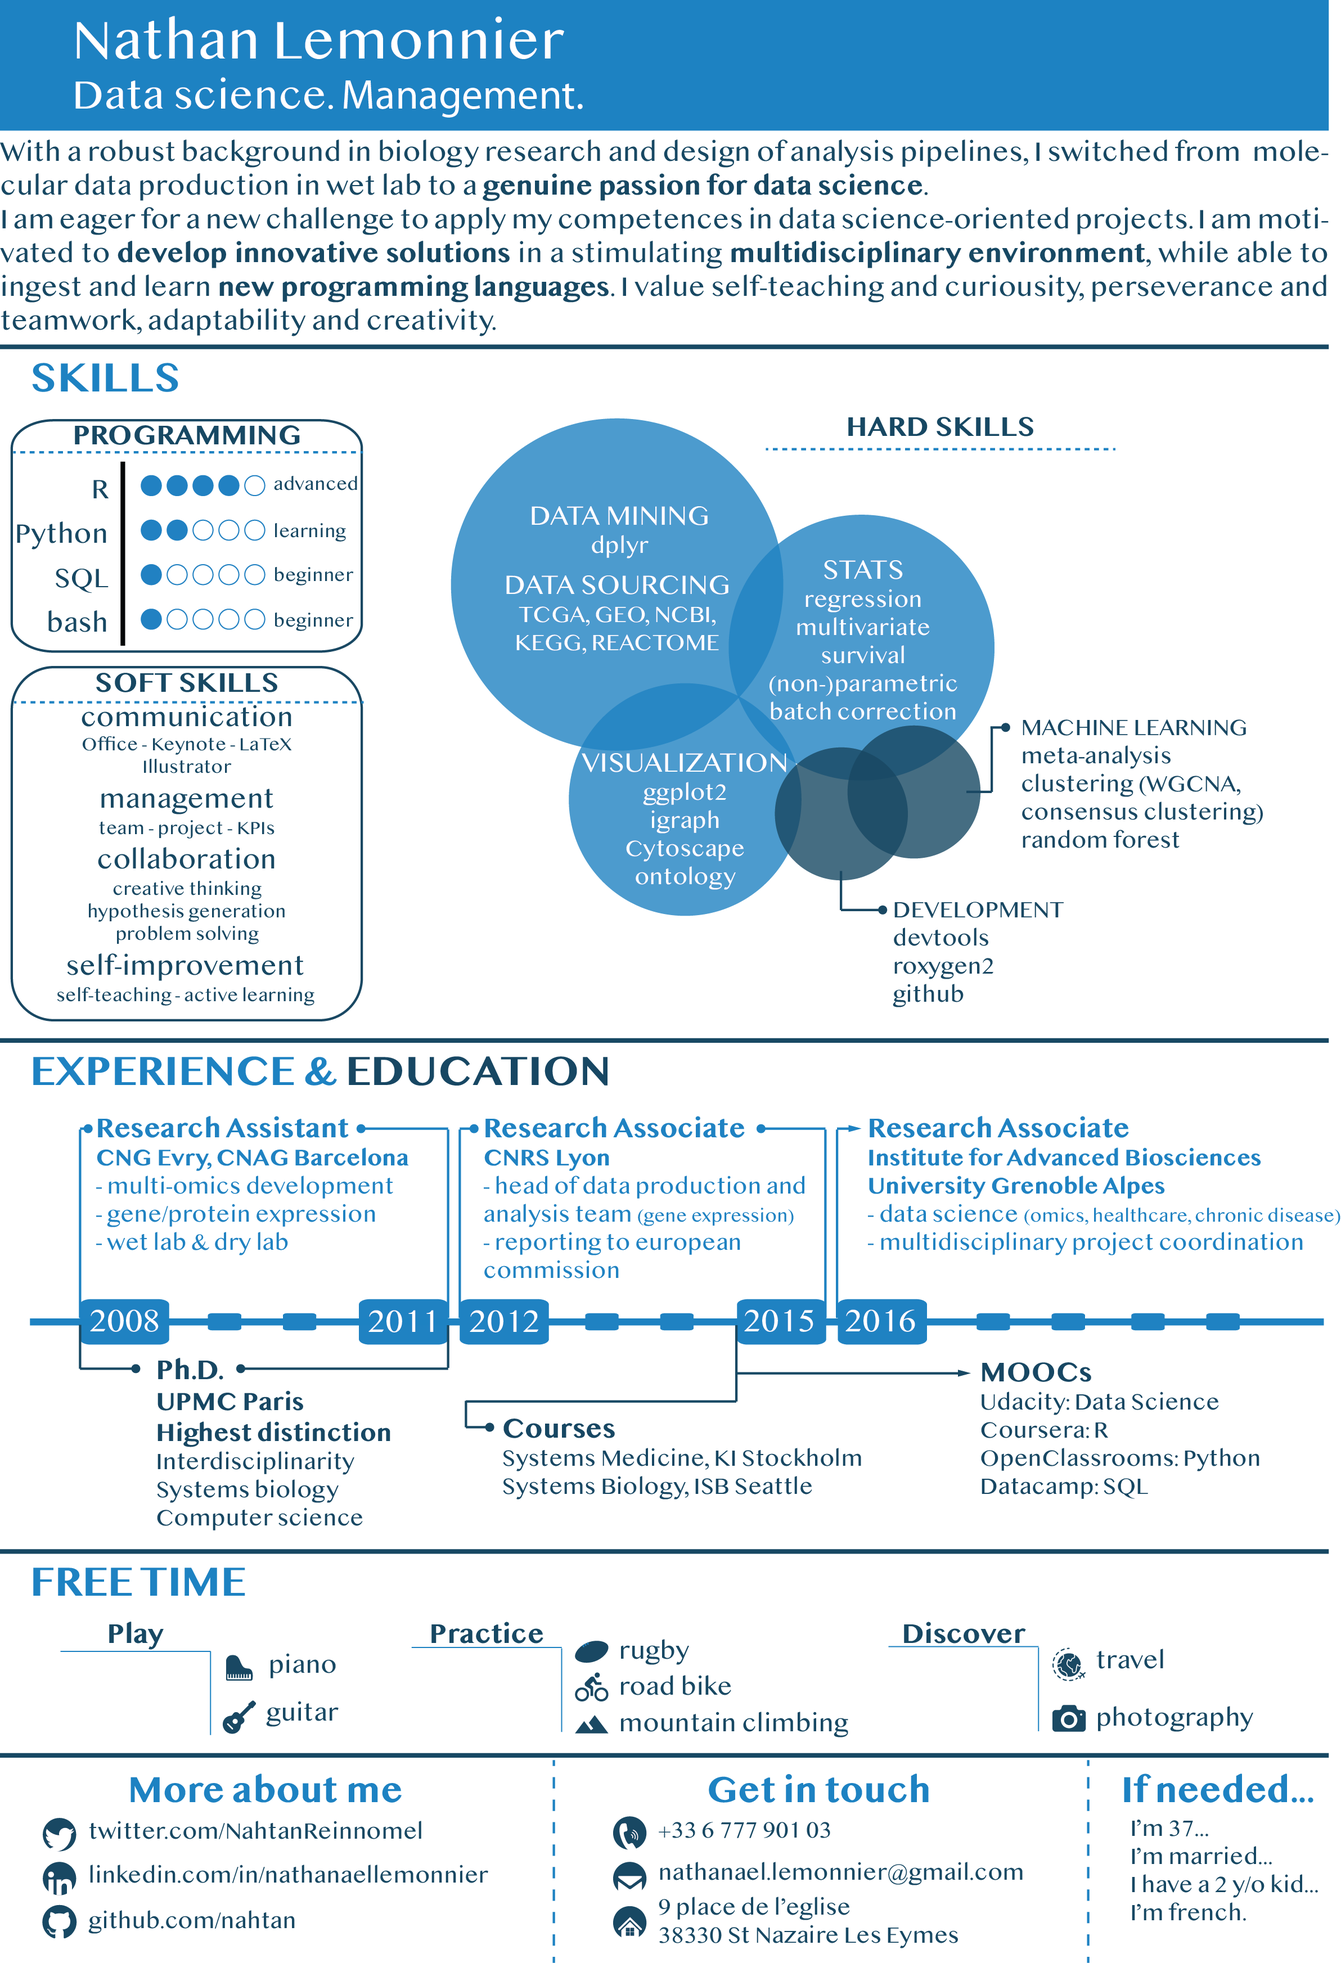
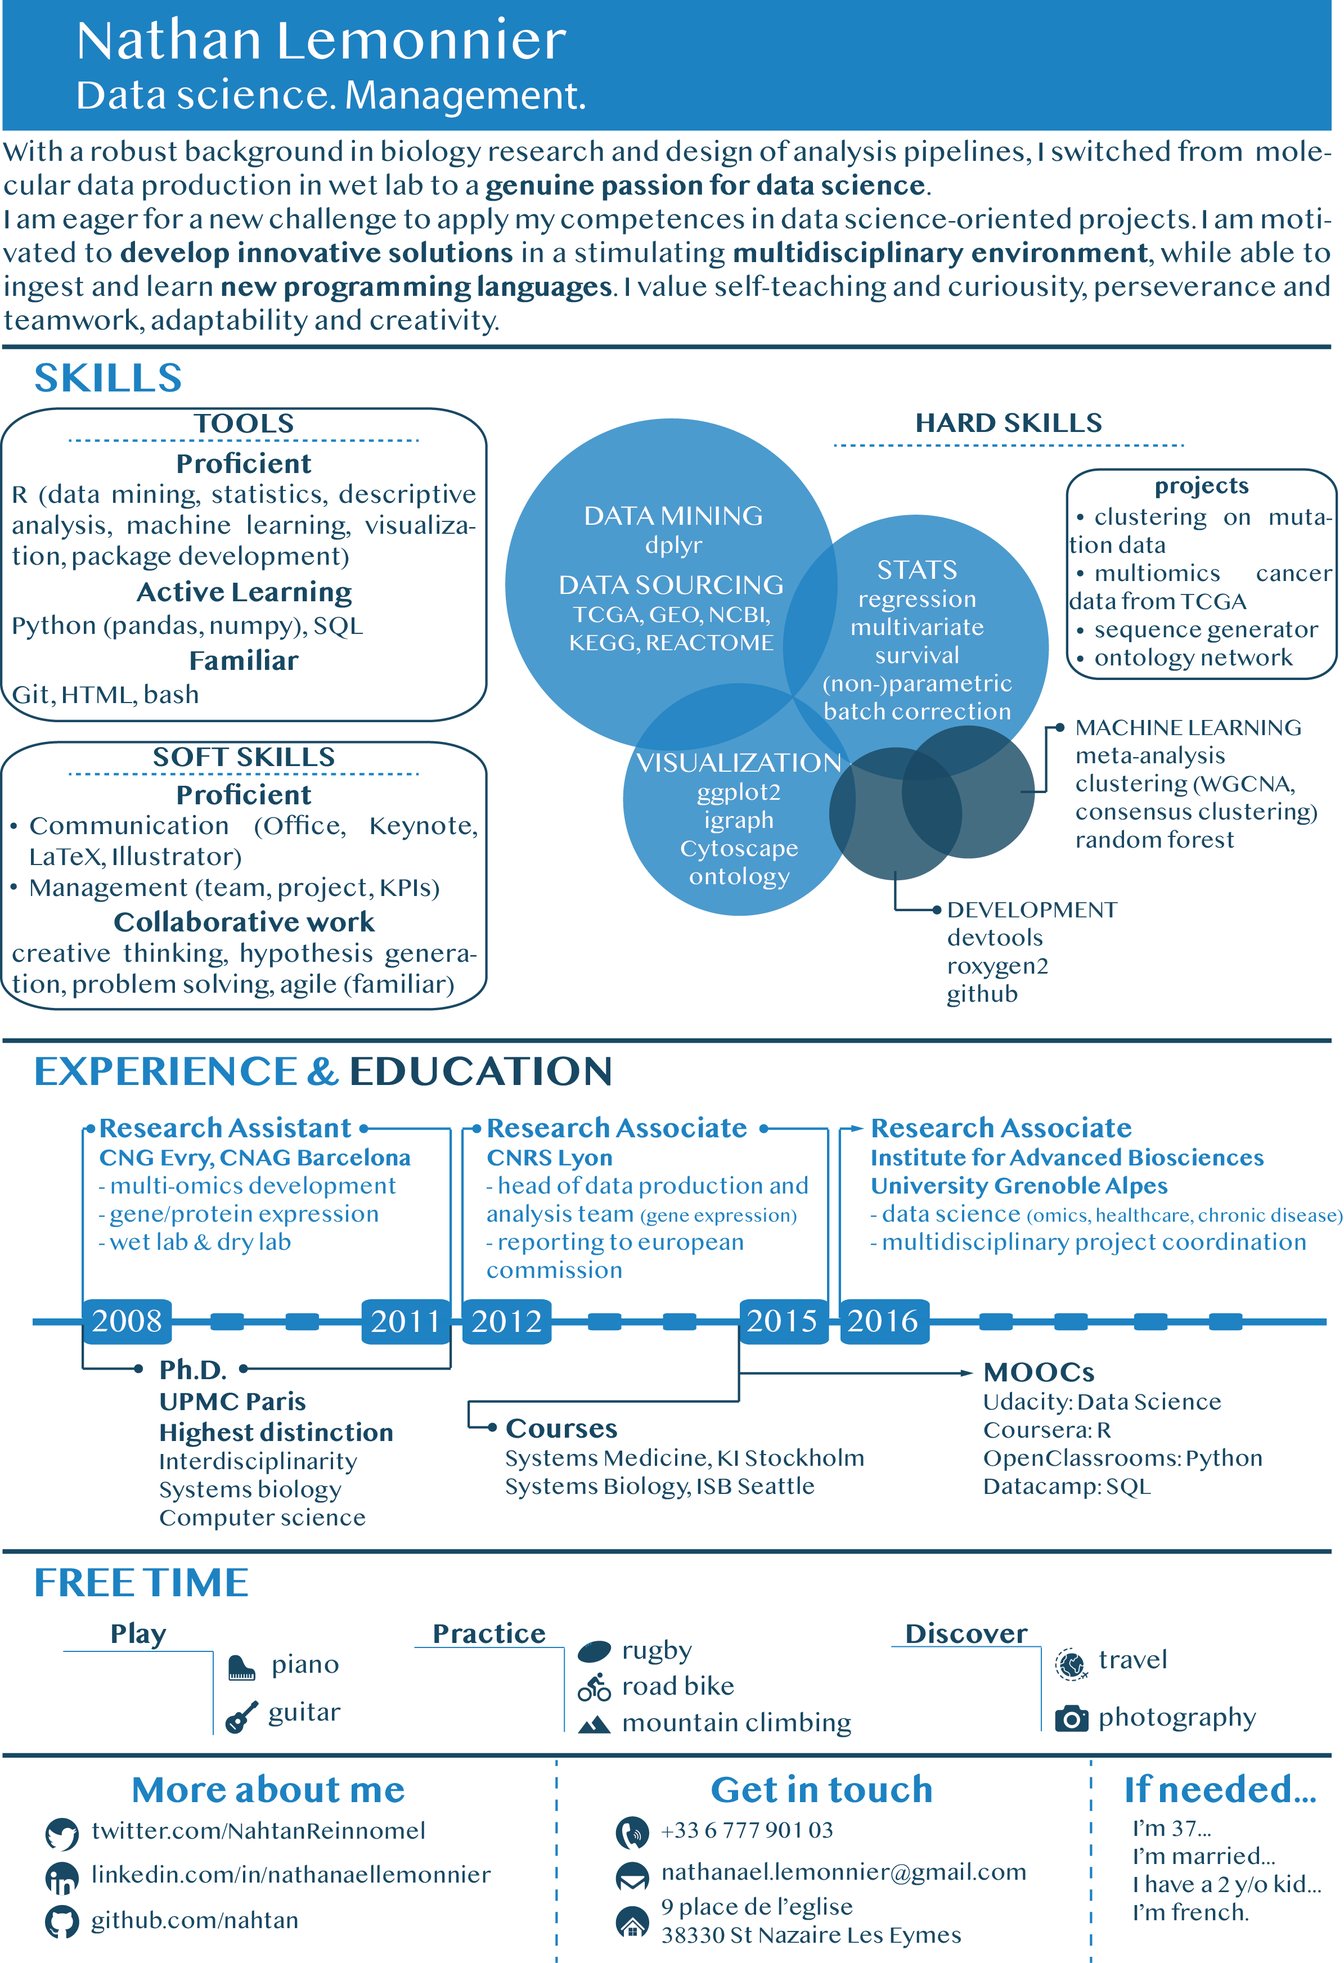
Add files via upload

diff --git a/_site/cv/index.html b/_site/cv/index.html
@@ -43,65 +43,311 @@
       <div class="inner clearfix">
         <section id="main-content">
           	<div class="cv">
-		<a href="img/cv.png" class="download" title="Download CV as PDF">Download my CV</a>			
+		<a href="img/cv.png" class="download" title="Download CV as PDF"><p align="right"> Download my CV </p></a>			
+<hr/>
+<b><a href="#pitch">PITCH</a></b><br>
+<b><a href="#projects">PROJECTS</a></b><br>
+<b><a href="#tools">TOOLS</a></b><br>
+<b><a href="#hskill">HARD SKILLS</a></b><br>
+<b><a href="#sskill">SOFT SKILLS</a></b><br>
+<b><a href="#expedu">EXPERIENCE & EDUCATION</a></b><br>
+<b><a href="#free">FREE TIME</a></b><br>
+<b><a href="#addy">PROFESSIONAL ADRESS</a></b><br>
+<b><a href="#publi">PUBLISHED WORKS</a></b><br>
+<hr/>
 
-<h2>Pitch</h2>
+<a name="pitch"><h2> Pitch</h2></a>
 <p align="justify"> With a robust background in biology research and design of analysis pipelines, I switched from  molecular data production in wet lab to a genuine passion for data science.<br>
 I am eager for a new challenge to apply my competences in data science-oriented projects. I am motivated to develop innovative solutions in a stimulating multidisciplinary environment, while able to ingest and learn new programming languages. I value self-teaching and curiousity, perseverance and teamwork, adaptability and creativity.</p>
+<hr/>
+<br>
+<br>
 
-<h2>Programming skills</h2>
-<img  src="img/cvprog.png">
-<p align="justify"> I pretty much master R, build packages and any possible vizualisations.<br>
-I lately started to learn Python and quickly progress.<br>
-Moreover, I also started MOOCs to handle SQL.<br>
-The use of shell comes naturally and steadily.	
-	</p>
+<a name="projects"><h2>Projects</h2></a>
+ <font size=3 style="margin-left: 30px"> • </font><b>Deciphering gene expression signature in multimorbidity of allergic disease</b><br>
+<p align="justify">After leading a team to produce gene expression data from over 800 participants from European cohorts on allergic diseases, I led their data analysis with classical pipeline: quality check, data cleaning, pre-processing, differential expression, distribution, statistical tests, ontology, network analysis, co-expression network, consensus clustering, machine learning.<br>
+A paper is being published. Other papers were published using this dataset (see Published Works).</p>
 
-<h2>Hard skills</h2>
-	
-<h2>Soft skills</h2>
-<ul>
-<li><em>Communication</em>
-	<ul type = "circle">
-	 <li>Office / Keynote / LaTeX</li>
-	 <li>Illustrator</li>
-	</ul>
-	</li>
-<li><em>Management</em>
-	<ul type = "circle">
-	 <li>team lead</li>
-	 <li>project management</li>
-	 <li>KPIs / Gantt charts</li>
-	</ul>
-	</li>
-<li><em>Collaboration</em>
-	<ul type = "circle">
-	 <li>creative thinking / hypothesis generation / problem solving</li>
-	</ul>
-	</li>
-<li><em>Self-improvement</em>
-	<ul type = "circle">
-		 <li>self-teaching & active learning</li>
-	</ul>
-	</li>
-</ul>
+ <font size=3 style="margin-left: 30px"> • </font><b>Multiomics cancer data exploration from TCGA dataset</b><br>
+<p align="justify"> TCGA data for all cancer types were retrieved for team needs on various projects. They include mutation data, clinical data, gene expression data. Collaborations ongoing. </p>
 
+ <font size=3 style="margin-left: 30px"> • </font><b>Clustering in mutation data</b><br>
+<p align="justify"> Iterative clustering was performed on expression data for >2,600 TP53 mutation data. Impact of retrieved clusters on immunogenicity (IEDB) and several expression datasets (lung cancer, TCGA, Li-Fraumeni Syndrome) was investigated. A paper is in preparation</p>
 
-<h2>Experience & Education</h2>
+ <font size=3 style="margin-left: 30px"> • </font><b>9mer generator from protein sequence</b><br>
+<p align="justify"> The immunogenicity of protein produced from TP53 mutants was queried with IEDB. For this purpose, a 9mer generator was created in R to retrieve all possible 9mers occuring at each codon of the protein with any possible mutation, <i>id est</i> ~70,000 possibilities for a 393 long sequence. </p>
 
-<h2>Free time</h2>
+ <font size=3 style="margin-left: 30px"> • </font><b>Meta-analysis from differential gene expression output</b><br>
+<p align="justify"> A package was created in R to assess meta-analysis from limma output. It includes inverse weighted fixed and random effects statistical calculations, and viz like volcano, funnel, caterpillar, forest plots. </p>
 
-<h2>Professional address</h2>
+ <font size=3 style="margin-left: 30px"> • </font><b>Gene-ontology relationship network viz</b><br>
+<p align="justify"> A network generator was created in R to visualize gene-ontology relationship </p>
+<hr/>
+<br>
+<br>
+
+<a name="tools"><h2>Tools</h2></a>
+<table style="width:100%">
+  <tr>
+    <td><b>Proficient</b></td>
+    <td><b>Active Learning</b></td> 
+    <td><b>Familiar</b></td>
+  </tr>
+  <tr>
+    <td rowspan="3">R</td>
+    <td rowspan="3">Python<br><i>numpy<br>pandas</i></td> 
+    <td >Git</td>
+  </tr>
+  <tr>
+    <td>HTML</td>
+  </tr>
+  <tr>
+    <td>bash</td>
+  </tr>
+  </table>
+<hr/>
+<br>
+<br>
+
+<a name="hskill"><h2>Hard skills</h2></a>
+<a href="/"><img  src="img/CVskill.png"></a><br>
+<hr/>
+<br>
+<br>
+
+<a name="sskill">Soft skills</h2></a>
+<table style="width:100%">
+  <tr>
+    <td colspan="2"><b>Proficient</b></td>
+    <td rowspan="2"><b>Collaborative Work</b></td>
+  </tr>
+  <tr>
+    <td><b>Communication</b></td>
+    <td><b>Management</b></td> 
+  </tr>
+  <tr>
+    <td>Office</td>
+    <td>Team management</td> 
+    <td>Creative Thinking</td> 	
+  </tr>
+  <tr>
+    <td>Keynote</td>
+    <td>Project Management</td> 
+    <td>Hypothesis Generation</td> 	
+  </tr>
+  <tr>
+    <td>LaTeX</td>
+    <td rowspan="2">KPIs<br><br> </td> 
+    <td>Problem Solving</td> 	
+  </tr>
+  <tr>
+    <td>Illustrator</td>
+
+    <td>familiar with agile method</td> 	
+  </tr>
+    </table>
+<hr/>
+<br>
+<br>
+
+<a name="expedu"><h2>Experience & Education</h2></a>
+<a href="/"><img  src="img/CVexp.png"></a><br>
+<hr/>
+<br>
+<br>
+
+<a name="free"><h2>Free time</h2></a>
+<a href="/"><img  src="img/CVfree.png"></a><br>
+<hr/>
+<br>
+<br>
+
+<a name="addy"><h2>Professional address</h2></a>
 <address>
 <strong>Institute for Advanced Biosciences</strong><br>
 Allée des Alpes<br>
 38700 La Tronche<br>
 <img  src="img/logophone.png"> +33 4 76 54 95 76 <br>
 </address>
+<hr/>
+<br>
+<br>
 
-<h2>Published Works</h2>
+<a name="publi"><h2>Published Works</h2></a>
+https://www.ncbi.nlm.nih.gov/pubmed/?term=Lemonnier+N
 
-				
+<ol>
+  <li>Hum Mutat. 2019 Jan;40(1):97-105. doi: 10.1002/humu.23673. Epub 2018 Nov 19.<br>
+Variable population prevalence estimates of germline TP53 variants: A gnomAD-based analysis.<br>
+de Andrade KC, Frone MN, Wegman-Ostrosky T, Khincha PP, Kim J, Amadou A, Santiago KM, Fortes FP, <b>Lemonnier N</b>, Mirabello L, Stewart DR, Hainaut P, Kowalski LP, Savage SA, Achatz MI.<br></li>
+  <li> </li>
+  <li> </li>
+  <li> </li>
+  <li> </li>
+  <li> </li>
+  <li> </li>
+  <li> </li>
+  <li> </li>
+  <li> </li>
+  <li> </li>
+  <li> </li>
+  <li> </li>
+  <li> </li>
+  <li> </li>
+</ol>  
+
+
+
+2.
+Systems medicine disease maps: community-driven comprehensive representation of disease mechanisms.
+
+Mazein A, Ostaszewski M, Kuperstein I, Watterson S, Le Novère N, Lefaudeux D, De Meulder B, Pellet J, Balaur I, Saqi M, Nogueira MM, He F, Parton A, Lemonnier N, Gawron P, Gebel S, Hainaut P, Ollert M, Dogrusoz U, Barillot E, Zinovyev A, Schneider R, Balling R, Auffray C.
+
+NPJ Syst Biol Appl. 2018 Jun 2;4:21. doi: 10.1038/s41540-018-0059-y. eCollection 2018.
+
+PMID: 29872544 Free PMC Article
+
+
+Select item 29843806
+3.
+A computational framework for complex disease stratification from multiple large-scale datasets.
+
+De Meulder B, Lefaudeux D, Bansal AT, Mazein A, Chaiboonchoe A, Ahmed H, Balaur I, Saqi M, Pellet J, Ballereau S, Lemonnier N, Sun K, Pandis I, Yang X, Batuwitage M, Kretsos K, van Eyll J, Bedding A, Davison T, Dodson P, Larminie C, Postle A, Corfield J, Djukanovic R, Chung KF, Adcock IM, Guo YK, Sterk PJ, Manta A, Rowe A, Baribaud F, Auffray C; U-BIOPRED Study Group and the eTRIKS Consortium.
+
+BMC Syst Biol. 2018 May 29;12(1):60. doi: 10.1186/s12918-018-0556-z.
+
+PMID: 29843806 Free PMC Article
+
+
+Select item 29496485
+4.
+DNA methylation in childhood asthma: an epigenome-wide meta-analysis.
+
+Xu CJ, Söderhäll C, Bustamante M, Baïz N, Gruzieva O, Gehring U, Mason D, Chatzi L, Basterrechea M, Llop S, Torrent M, Forastiere F, Fantini MP, Carlsen KCL, Haahtela T, Morin A, Kerkhof M, Merid SK, van Rijkom B, Jankipersadsing SA, Bonder MJ, Ballereau S, Vermeulen CJ, Aguirre-Gamboa R, de Jongste JC, Smit HA, Kumar A, Pershagen G, Guerra S, Garcia-Aymerich J, Greco D, Reinius L, McEachan RRC, Azad R, Hovland V, Mowinckel P, Alenius H, Fyhrquist N, Lemonnier N, Pellet J, Auffray C; BIOS Consortium, van der Vlies P, van Diemen CC, Li Y, Wijmenga C, Netea MG, Moffatt MF, Cookson WOCM, Anto JM, Bousquet J, Laatikainen T, Laprise C, Carlsen KH, Gori D, Porta D, Iñiguez C, Bilbao JR, Kogevinas M, Wright J, Brunekreef B, Kere J, Nawijn MC, Annesi-Maesano I, Sunyer J, Melén E, Koppelman GH.
+
+Lancet Respir Med. 2018 May;6(5):379-388. doi: 10.1016/S2213-2600(18)30052-3. Epub 2018 Feb 26.
+
+PMID: 29496485 Free Article
+
+
+Select item 29076964
+5.
+Lysine methylation signaling in pancreatic cancer.
+
+Roth GS, Casanova AG, Lemonnier N, Reynoird N.
+
+Curr Opin Oncol. 2018 Jan;30(1):30-37. doi: 10.1097/CCO.0000000000000421.
+
+PMID: 29076964
+
+
+Select item 28861920
+6.
+Higher-than-expected population prevalence of potentially pathogenic germline TP53 variants in individuals unselected for cancer history.
+
+de Andrade KC, Mirabello L, Stewart DR, Karlins E, Koster R, Wang M, Gapstur SM, Gaudet MM, Freedman ND, Landi MT, Lemonnier N, Hainaut P, Savage SA, Achatz MI.
+
+Hum Mutat. 2017 Dec;38(12):1723-1730. doi: 10.1002/humu.23320. Epub 2017 Sep 21.
+
+PMID: 28861920
+
+
+Select item 28669936
+7.
+Exposure to Traffic-Related Air Pollution and Serum Inflammatory Cytokines in Children.
+
+Gruzieva O, Merid SK, Gref A, Gajulapuri A, Lemonnier N, Ballereau S, Gigante B, Kere J, Auffray C, Melén E, Pershagen G.
+
+Environ Health Perspect. 2017 Jun 16;125(6):067007. doi: 10.1289/EHP460.
+
+PMID: 28669936 Free PMC Article
+
+
+Select item 28598986
+8.
+Computational analysis of multimorbidity between asthma, eczema and rhinitis.
+
+Aguilar D, Pinart M, Koppelman GH, Saeys Y, Nawijn MC, Postma DS, Akdis M, Auffray C, Ballereau S, Benet M, García-Aymerich J, González JR, Guerra S, Keil T, Kogevinas M, Lambrecht B, Lemonnier N, Melen E, Sunyer J, Valenta R, Valverde S, Wickman M, Bousquet J, Oliva B, Antó JM.
+
+PLoS One. 2017 Jun 9;12(6):e0179125. doi: 10.1371/journal.pone.0179125. eCollection 2017.
+
+PMID: 28598986 Free PMC Article
+
+
+Select item 28183433
+9.
+Mechanisms of the Development of Allergy (MeDALL): Introducing novel concepts in allergy phenotypes.
+
+Anto JM, Bousquet J, Akdis M, Auffray C, Keil T, Momas I, Postma DS, Valenta R, Wickman M, Cambon-Thomsen A, Haahtela T, Lambrecht BN, Lodrup Carlsen KC, Koppelman GH, Sunyer J, Zuberbier T, Annesi-Maesano I, Arno A, Bindslev-Jensen C, De Carlo G, Forastiere F, Heinrich J, Kowalski ML, Maier D, Melén E, Smit HA, Standl M, Wright J, Asarnoj A, Benet M, Ballardini N, Garcia-Aymerich J, Gehring U, Guerra S, Hohmann C, Kull I, Lupinek C, Pinart M, Skrindo I, Westman M, Smagghe D, Akdis C, Andersson N, Bachert C, Ballereau S, Ballester F, Basagana X, Bedbrook A, Bergstrom A, von Berg A, Brunekreef B, Burte E, Carlsen KH, Chatzi L, Coquet JM, Curin M, Demoly P, Eller E, Fantini MP, von Hertzen L, Hovland V, Jacquemin B, Just J, Keller T, Kiss R, Kogevinas M, Koletzko S, Lau S, Lehmann I, Lemonnier N, Mäkelä M, Mestres J, Mowinckel P, Nadif R, Nawijn MC, Pellet J, Pin I, Porta D, Rancière F, Rial-Sebbag E, Saeys Y, Schuijs MJ, Siroux V, Tischer CG, Torrent M, Varraso R, Wenzel K, Xu CJ.
+
+J Allergy Clin Immunol. 2017 Feb;139(2):388-399. doi: 10.1016/j.jaci.2016.12.940. Review.
+
+PMID: 28183433
+
+
+Select item 27901618
+10.
+Genome-Wide Interaction Analysis of Air Pollution Exposure and Childhood Asthma with Functional Follow-up.
+
+Gref A, Merid SK, Gruzieva O, Ballereau S, Becker A, Bellander T, Bergström A, Bossé Y, Bottai M, Chan-Yeung M, Fuertes E, Ierodiakonou D, Jiang R, Joly S, Jones M, Kobor MS, Korek M, Kozyrskyj AL, Kumar A, Lemonnier N, MacIntyre E, Ménard C, Nickle D, Obeidat M, Pellet J, Standl M, Sääf A, Söderhäll C, Tiesler CMT, van den Berge M, Vonk JM, Vora H, Xu CJ, Antó JM, Auffray C, Brauer M, Bousquet J, Brunekreef B, Gauderman WJ, Heinrich J, Kere J, Koppelman GH, Postma D, Carlsten C, Pershagen G, Melén E.
+
+Am J Respir Crit Care Med. 2017 May 15;195(10):1373-1383. doi: 10.1164/rccm.201605-1026OC.
+
+PMID: 27901618 Free PMC Article
+
+
+Select item 27448387
+11.
+Epigenome-Wide Meta-Analysis of Methylation in Children Related to Prenatal NO2 Air Pollution Exposure.
+
+Gruzieva O, Xu CJ, Breton CV, Annesi-Maesano I, Antó JM, Auffray C, Ballereau S, Bellander T, Bousquet J, Bustamante M, Charles MA, de Kluizenaar Y, den Dekker HT, Duijts L, Felix JF, Gehring U, Guxens M, Jaddoe VV, Jankipersadsing SA, Merid SK, Kere J, Kumar A, Lemonnier N, Lepeule J, Nystad W, Page CM, Panasevich S, Postma D, Slama R, Sunyer J, Söderhäll C, Yao J, London SJ, Pershagen G, Koppelman GH, Melén E.
+
+Environ Health Perspect. 2017 Jan;125(1):104-110. doi: 10.1289/EHP36. Epub 2016 Jul 22.
+
+PMID: 27448387 Free PMC Article
+
+
+Select item 27040690
+12.
+DNA Methylation in Newborns and Maternal Smoking in Pregnancy: Genome-wide Consortium Meta-analysis.
+
+Joubert BR, Felix JF, Yousefi P, Bakulski KM, Just AC, Breton C, Reese SE, Markunas CA, Richmond RC, Xu CJ, Küpers LK, Oh SS, Hoyo C, Gruzieva O, Söderhäll C, Salas LA, Baïz N, Zhang H, Lepeule J, Ruiz C, Ligthart S, Wang T, Taylor JA, Duijts L, Sharp GC, Jankipersadsing SA, Nilsen RM, Vaez A, Fallin MD, Hu D, Litonjua AA, Fuemmeler BF, Huen K, Kere J, Kull I, Munthe-Kaas MC, Gehring U, Bustamante M, Saurel-Coubizolles MJ, Quraishi BM, Ren J, Tost J, Gonzalez JR, Peters MJ, Håberg SE, Xu Z, van Meurs JB, Gaunt TR, Kerkhof M, Corpeleijn E, Feinberg AP, Eng C, Baccarelli AA, Benjamin Neelon SE, Bradman A, Merid SK, Bergström A, Herceg Z, Hernandez-Vargas H, Brunekreef B, Pinart M, Heude B, Ewart S, Yao J, Lemonnier N, Franco OH, Wu MC, Hofman A, McArdle W, Van der Vlies P, Falahi F, Gillman MW, Barcellos LF, Kumar A, Wickman M, Guerra S, Charles MA, Holloway J, Auffray C, Tiemeier HW, Smith GD, Postma D, Hivert MF, Eskenazi B, Vrijheid M, Arshad H, Antó JM, Dehghan A, Karmaus W, Annesi-Maesano I, Sunyer J, Ghantous A, Pershagen G, Holland N, Murphy SK, DeMeo DL, Burchard EG, Ladd-Acosta C, Snieder H, Nystad W, Koppelman GH, Relton CL, Jaddoe VW, Wilcox A, Melén E, London SJ.
+
+Am J Hum Genet. 2016 Apr 7;98(4):680-96. doi: 10.1016/j.ajhg.2016.02.019. Epub 2016 Mar 31.
+
+PMID: 27040690 Free PMC Article
+
+
+Select item 26970340
+13.
+Paving the way of systems biology and precision medicine in allergic diseases: the MeDALL success story: Mechanisms of the Development of ALLergy; EU FP7-CP-IP; Project No: 261357; 2010-2015.
+
+Bousquet J, Anto JM, Akdis M, Auffray C, Keil T, Momas I, Postma DS, Valenta R, Wickman M, Cambon-Thomsen A, Haahtela T, Lambrecht BN, Lodrup Carlsen KC, Koppelman GH, Sunyer J, Zuberbier T, Annesi-Maesano I, Arno A, Bindslev-Jensen C, De Carlo G, Forastiere F, Heinrich J, Kowalski ML, Maier D, Melén E, Palkonen S, Smit HA, Standl M, Wright J, Asarnoj A, Benet M, Ballardini N, Garcia-Aymerich J, Gehring U, Guerra S, Hohman C, Kull I, Lupinek C, Pinart M, Skrindo I, Westman M, Smagghe D, Akdis C, Albang R, Anastasova V, Anderson N, Bachert C, Ballereau S, Ballester F, Basagana X, Bedbrook A, Bergstrom A, von Berg A, Brunekreef B, Burte E, Carlsen KH, Chatzi L, Coquet JM, Curin M, Demoly P, Eller E, Fantini MP, Gerhard B, Hammad H, von Hertzen L, Hovland V, Jacquemin B, Just J, Keller T, Kerkhof M, Kiss R, Kogevinas M, Koletzko S, Lau S, Lehmann I, Lemonnier N, McEachan R, Mäkelä M, Mestres J, Minina E, Mowinckel P, Nadif R, Nawijn M, Oddie S, Pellet J, Pin I, Porta D, Rancière F, Rial-Sebbag A, Saeys Y, Schuijs MJ, Siroux V, Tischer CG, Torrent M, Varraso R, De Vocht J, Wenger K, Wieser S, Xu C.
+
+Allergy. 2016 Nov;71(11):1513-1525. doi: 10.1111/all.12880. Epub 2016 Aug 23. Review.
+
+PMID: 26970340 Free PMC Article
+
+
+Select item 26357963
+14.
+Clinical and inflammatory characteristics of the European U-BIOPRED adult severe asthma cohort.
+
+Shaw DE, Sousa AR, Fowler SJ, Fleming LJ, Roberts G, Corfield J, Pandis I, Bansal AT, Bel EH, Auffray C, Compton CH, Bisgaard H, Bucchioni E, Caruso M, Chanez P, Dahlén B, Dahlen SE, Dyson K, Frey U, Geiser T, Gerhardsson de Verdier M, Gibeon D, Guo YK, Hashimoto S, Hedlin G, Jeyasingham E, Hekking PP, Higenbottam T, Horváth I, Knox AJ, Krug N, Erpenbeck VJ, Larsson LX, Lazarinis N, Matthews JG, Middelveld R, Montuschi P, Musial J, Myles D, Pahus L, Sandström T, Seibold W, Singer F, Strandberg K, Vestbo J, Vissing N, von Garnier C, Adcock IM, Wagers S, Rowe A, Howarth P, Wagener AH, Djukanovic R, Sterk PJ, Chung KF; U-BIOPRED Study Group.
+
+Eur Respir J. 2015 Nov;46(5):1308-21. doi: 10.1183/13993003.00779-2015. Epub 2015 Sep 10. Erratum in: Eur Respir J. 2017 Jun 22;49(6):.
+
+PMID: 26357963 Free Article
+
+
+Select item 25913421
+15.
+Are allergic multimorbidities and IgE polysensitization associated with the persistence or re-occurrence of foetal type 2 signalling? The MeDALL hypothesis.
+
+Bousquet J, Anto JM, Wickman M, Keil T, Valenta R, Haahtela T, Lodrup Carlsen K, van Hage M, Akdis C, Bachert C, Akdis M, Auffray C, Annesi-Maesano I, Bindslev-Jensen C, Cambon-Thomsen A, Carlsen KH, Chatzi L, Forastiere F, Garcia-Aymerich J, Gehrig U, Guerra S, Heinrich J, Koppelman GH, Kowalski ML, Lambrecht B, Lupinek C, Maier D, Melén E, Momas I, Palkonen S, Pinart M, Postma D, Siroux V, Smit HA, Sunyer J, Wright J, Zuberbier T, Arshad SH, Nadif R, Thijs C, Andersson N, Asarnoj A, Ballardini N, Ballereau S, Bedbrook A, Benet M, Bergstrom A, Brunekreef B, Burte E, Calderon M, De Carlo G, Demoly P, Eller E, Fantini MP, Hammad H, Hohman C, Just J, Kerkhof M, Kogevinas M, Kull I, Lau S, Lemonnier N, Mommers M, Nawijn M, Neubauer A, Oddie S, Pellet J, Pin I, Porta D, Saes Y, Skrindo I, Tischer CG, Torrent M, von Hertzen L.
+
+Allergy. 2015 Sep;70(9):1062-78. doi: 10.1111/all.12637. Epub 2015 Jul 14. Review.
+PMID: 25913421				
 
 
 	</div>
